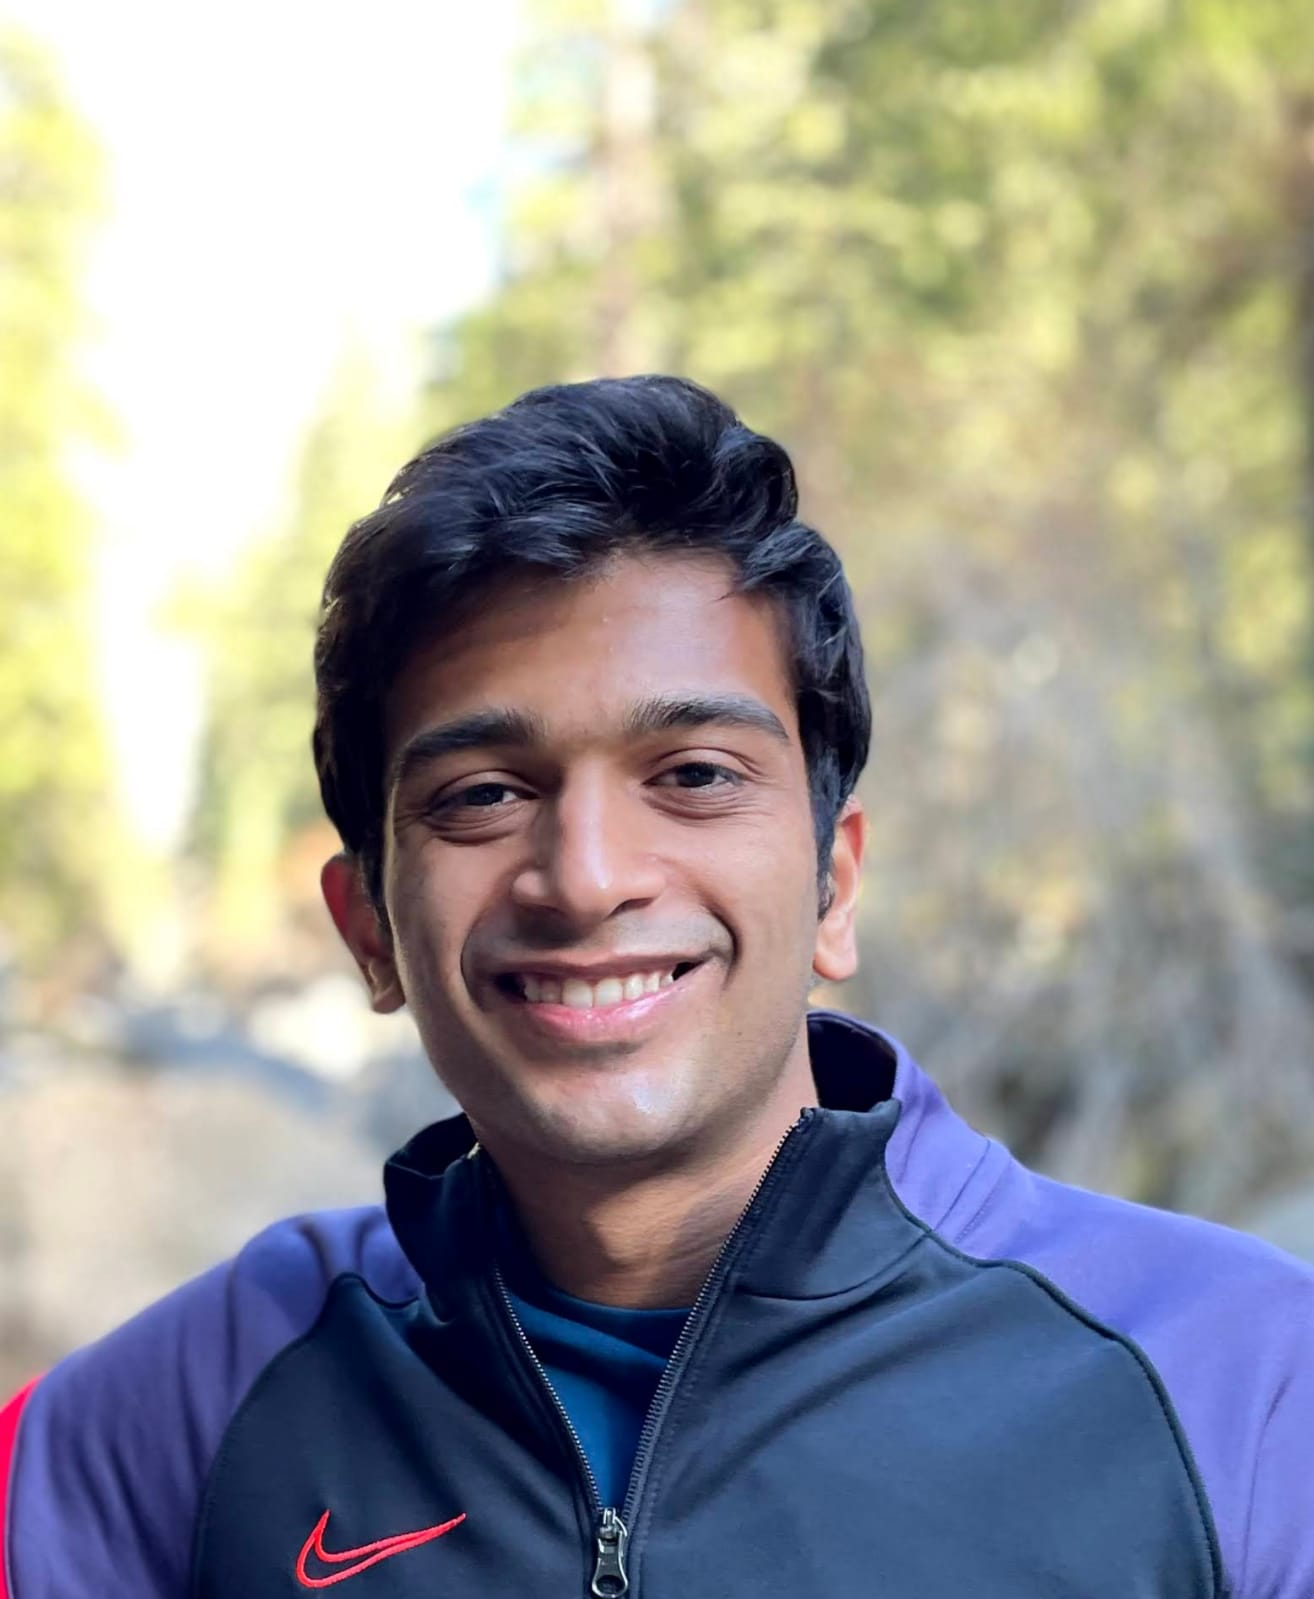
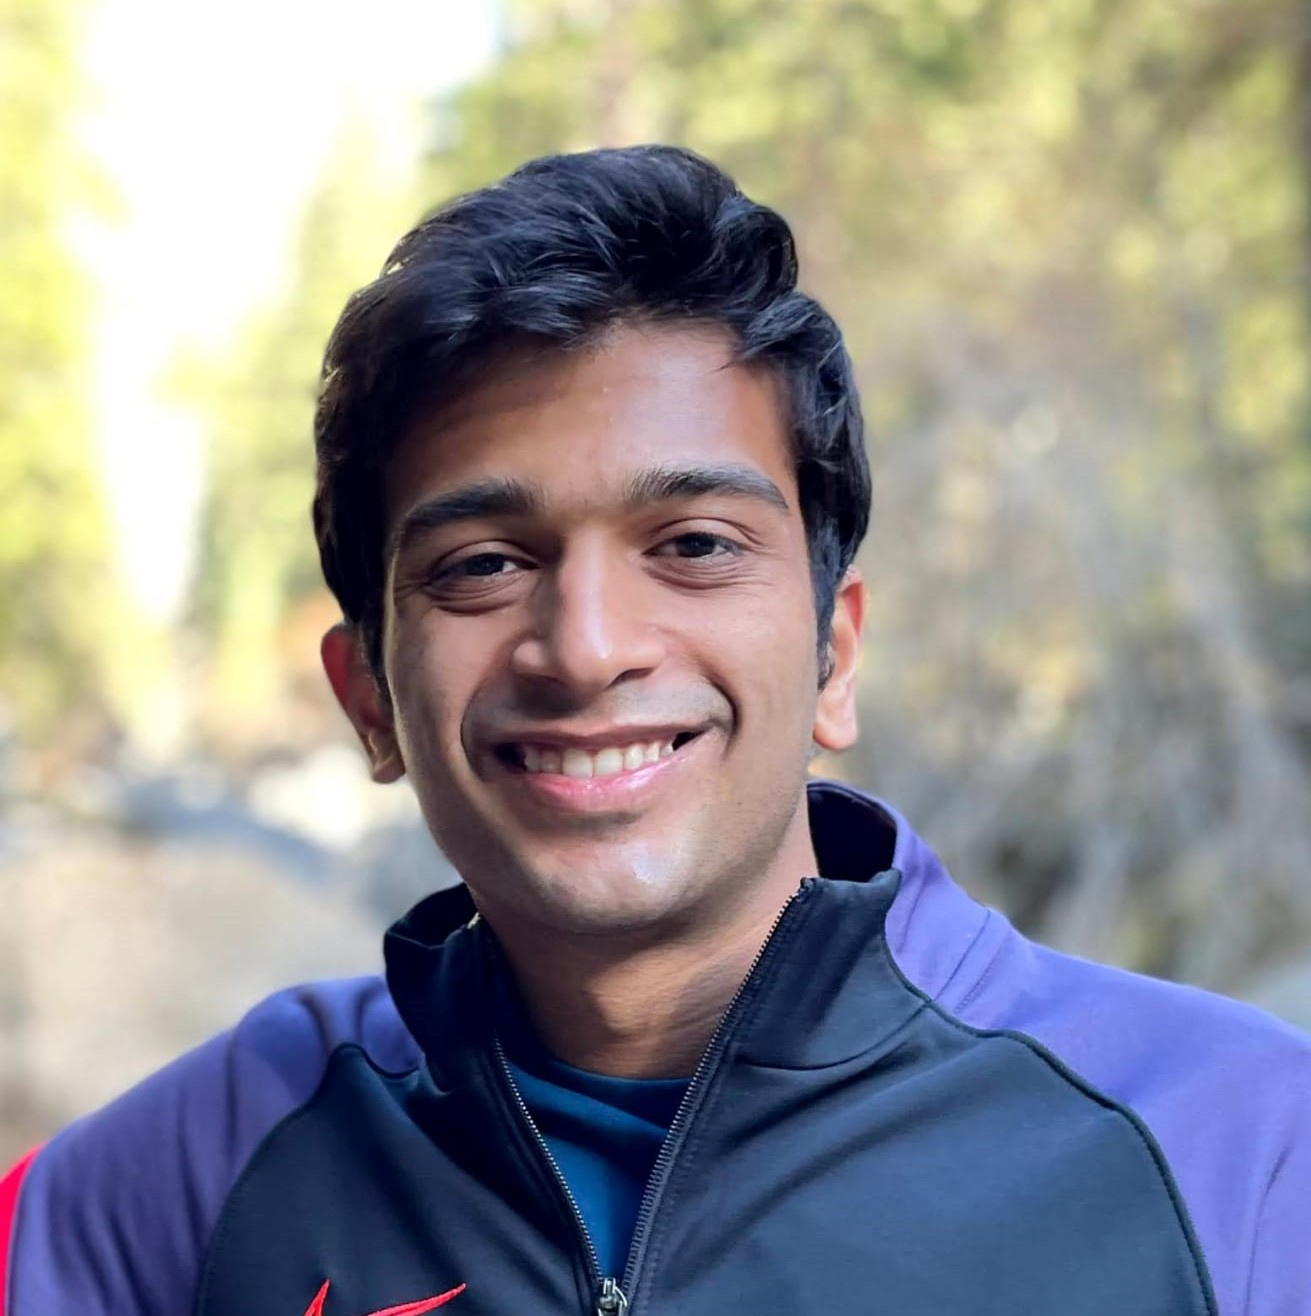
Changing the aspect ratio to square for better alignment

diff --git a/index.html b/index.html
@@ -64,13 +64,13 @@
                 <h3>Instructors</h3>
                 <div class="instructor">
                     <a href="http://theory.stanford.edu/people/jcm/">
-                        <div class="instructorphoto"><img src="images/shreya_mugshot_2.jpeg"></div>
+                        <div class="instructorphoto"><img src="images/shreya_mugshot_2_square.jpeg"></div>
                         <div>John Mitchell</div>
                     </a>
                 </div>
                 <div class="instructor">
                     <a href="https://www.andrew.cmu.edu/user/danupam/">
-                        <div class="instructorphoto"><img src="images/shreya_mugshot_2.jpeg"></div>
+                        <div class="instructorphoto"><img src="images/shreya_mugshot_2_square.jpeg"></div>
                         <div>Anupam Datta</div>
                     </a>
                 </div>
@@ -79,7 +79,7 @@
                 <h3>TAs</h3>
                 <div class="instructor">
                     <a href="https://www.linkedin.com/in/shreya-singh-a54120123/">
-                        <div class="instructorphoto"><img src="images/shreya_mugshot_2.jpeg"></div>
+                        <div class="instructorphoto"><img src="images/shreya_mugshot_2_square.jpeg"></div>
                         <div>Shreya Singh</div>
                     </a>
                 </div>
@@ -94,19 +94,19 @@
                 <h3>Advisors</h3>
                 <div class="instructor">
                     <a href="https://piotr.mardziel.com/">
-                        <div class="instructorphoto"><img src="images/shreya_mugshot_2.jpeg"></div>
+                        <div class="instructorphoto"><img src="images/shreya_mugshot_2_square.jpeg"></div>
                         <div>Piotr Mardziel</div>
                     </a>
                 </div>
                 <div class="instructor">
                     <a href="https://www.linkedin.com/in/divyagopinath/">
-                        <div class="instructorphoto"><img src="images/shreya_mugshot_2.jpeg"></div>
+                        <div class="instructorphoto"><img src="images/shreya_mugshot_2_square.jpeg"></div>
                         <div>Divya Gopinath</div>
                     </a>
                 </div>
                 <div class="instructor">
                     <a href="https://www.linkedin.com/in/shayak-sen/">
-                        <div class="instructorphoto"><img src="images/shreya_mugshot_2.jpeg"></div>
+                        <div class="instructorphoto"><img src="images/shreya_mugshot_2_square.jpeg"></div>
                         <div>Shayak Sen</div>
                     </a>
                 </div>
